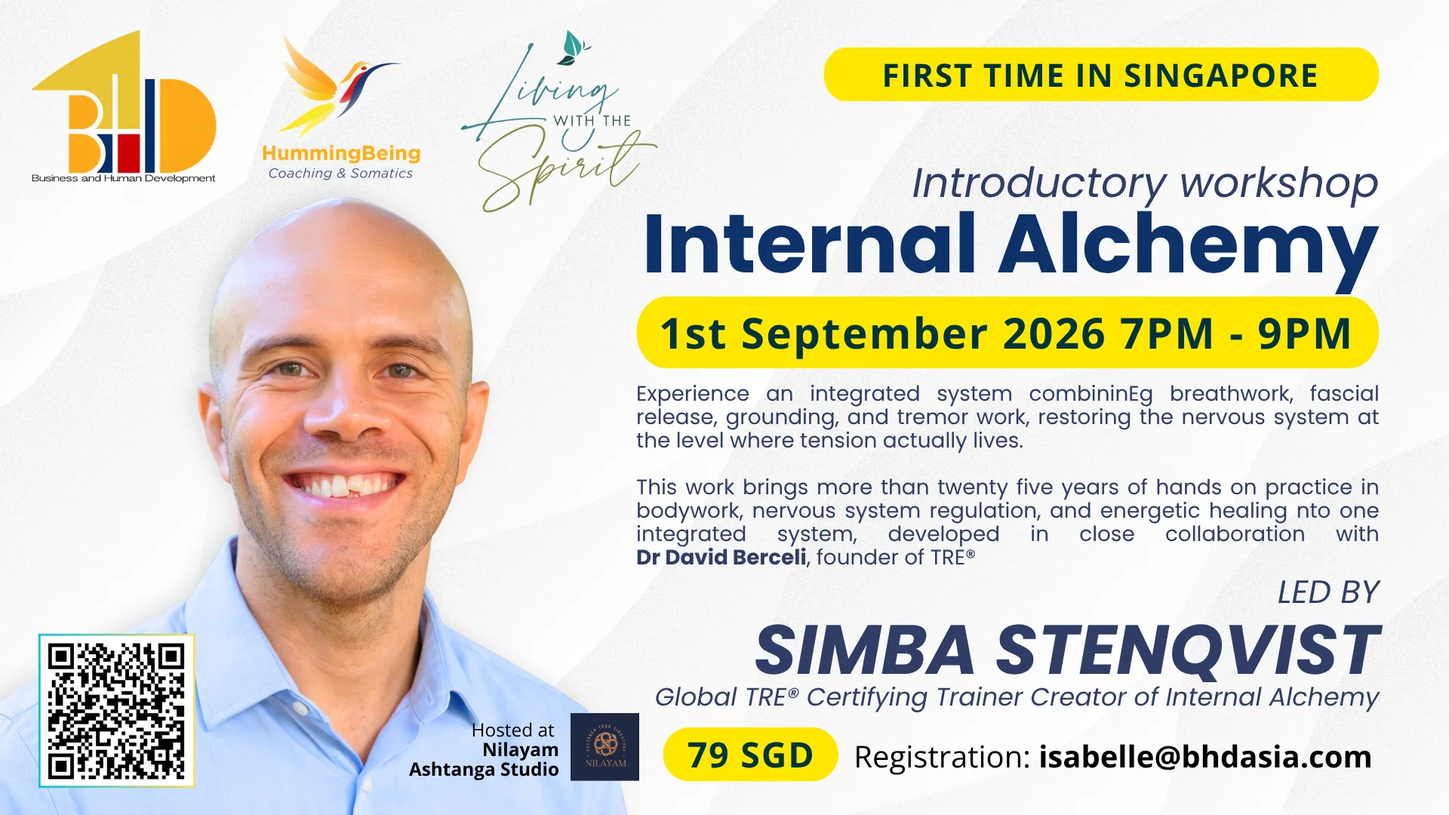
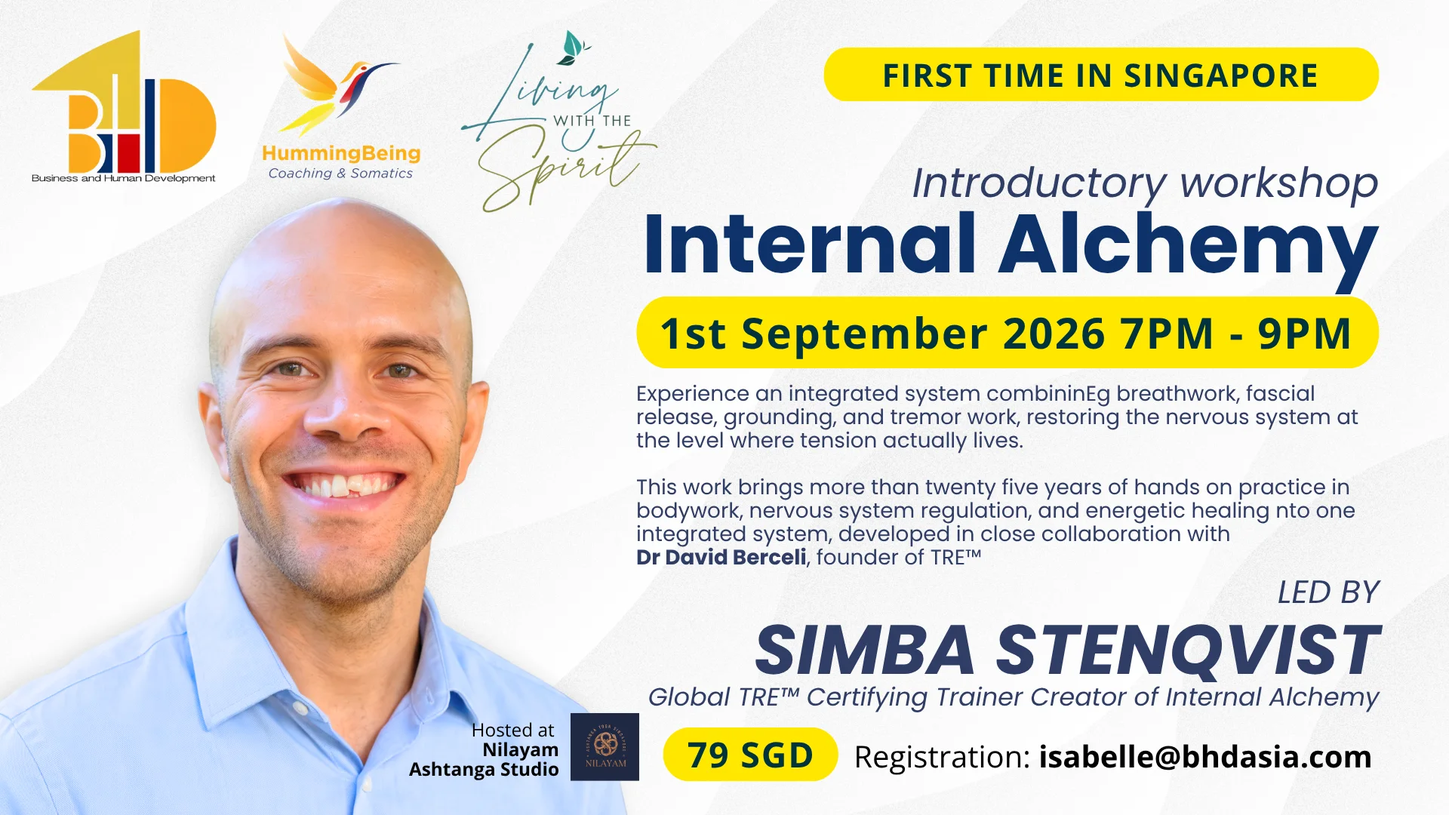
Replace all six event thumbnails with the TM-corrected artwork
New client exports with TRE followed by the TM symbol (was R) in trainer bylines, banners and body text. Cache versions bumped on every referencing page incl. og:image and schema image fields. Known leftover: the Cert 2026 (Transform your Practice) banner still reads TRE with R in the artwork itself - flagged to the client.

diff --git a/event-certification-2027.html b/event-certification-2027.html
@@ -29,7 +29,7 @@ j=d.createElement(s),dl=l!='dataLayer'?'&l='+l:'';j.async=true;j.src=
 <meta property="og:title" content="TRE&trade; Provider Certification 2027 — Coming Soon | BHD Asia"/>
 <meta property="og:description" content="Only one cohort per year in Singapore. Module 1: 13–14 Mar &middot; Module 2: 8–9 May &middot; Module 3: 28–29 Aug 2027. Boosted by Internal Alchemy."/>
 <meta property="og:url" content="https://bhdasia.com/event-certification-2027.html"/>
-<meta property="og:image" content="https://bhdasia.com/event-cert-2027.webp?v=2"/>
+<meta property="og:image" content="https://bhdasia.com/event-cert-2027.webp?v=3"/>
 <meta name="twitter:card" content="summary_large_image"/>
 <meta name="twitter:title" content="TRE&trade; Provider Certification 2027 — Coming Soon | BHD Asia"/>
 <meta name="twitter:description" content="Only one cohort per year in Singapore. Module 1: 13–14 Mar &middot; Module 2: 8–9 May &middot; Module 3: 28–29 Aug 2027."/>
@@ -40,7 +40,7 @@ j=d.createElement(s),dl=l!='dataLayer'?'&l='+l:'';j.async=true;j.src=
 <link rel="stylesheet" href="style.css?v=5"/>
 <link rel="stylesheet" href="event-detail.css?v=5"/>
 <script type="application/ld+json">
-{"@context":"https://schema.org","@type":"Course","name":"Global TRE™ Provider Certification 2027","description":"Become a Certified Global TRE™ Provider — the 2027 Singapore cohort, boosted by Internal Alchemy. Module 1: 13–14 March, Module 2: 8–9 May, Module 3: 28–29 August 2027. Led by Global TRE™ Certifying Trainer Isabelle Claus Teixeira.","provider":{"@type":"Organization","name":"BHD Asia","url":"https://bhdasia.com/"},"url":"https://bhdasia.com/event-certification-2027.html","image":"https://bhdasia.com/event-cert-2027.webp?v=2","hasCourseInstance":[{"@type":"CourseInstance","name":"Module 1 — Your Personal TRE™ Practice","courseMode":"Blended","startDate":"2027-03-13","endDate":"2027-03-14","location":{"@type":"Place","address":{"@type":"PostalAddress","addressLocality":"Singapore","addressCountry":"SG"}}},{"@type":"CourseInstance","name":"Module 2 — Teaching TRE™ to One Person","courseMode":"Blended","startDate":"2027-05-08","endDate":"2027-05-09","location":{"@type":"Place","address":{"@type":"PostalAddress","addressLocality":"Singapore","addressCountry":"SG"}}},{"@type":"CourseInstance","name":"Module 3 — Teaching TRE™ to Groups","courseMode":"Blended","startDate":"2027-08-28","endDate":"2027-08-29","location":{"@type":"Place","address":{"@type":"PostalAddress","addressLocality":"Singapore","addressCountry":"SG"}}}]}
+{"@context":"https://schema.org","@type":"Course","name":"Global TRE™ Provider Certification 2027","description":"Become a Certified Global TRE™ Provider — the 2027 Singapore cohort, boosted by Internal Alchemy. Module 1: 13–14 March, Module 2: 8–9 May, Module 3: 28–29 August 2027. Led by Global TRE™ Certifying Trainer Isabelle Claus Teixeira.","provider":{"@type":"Organization","name":"BHD Asia","url":"https://bhdasia.com/"},"url":"https://bhdasia.com/event-certification-2027.html","image":"https://bhdasia.com/event-cert-2027.webp?v=3","hasCourseInstance":[{"@type":"CourseInstance","name":"Module 1 — Your Personal TRE™ Practice","courseMode":"Blended","startDate":"2027-03-13","endDate":"2027-03-14","location":{"@type":"Place","address":{"@type":"PostalAddress","addressLocality":"Singapore","addressCountry":"SG"}}},{"@type":"CourseInstance","name":"Module 2 — Teaching TRE™ to One Person","courseMode":"Blended","startDate":"2027-05-08","endDate":"2027-05-09","location":{"@type":"Place","address":{"@type":"PostalAddress","addressLocality":"Singapore","addressCountry":"SG"}}},{"@type":"CourseInstance","name":"Module 3 — Teaching TRE™ to Groups","courseMode":"Blended","startDate":"2027-08-28","endDate":"2027-08-29","location":{"@type":"Place","address":{"@type":"PostalAddress","addressLocality":"Singapore","addressCountry":"SG"}}}]}
 </script>
 <style>
 .cs-photos{display:grid;grid-template-columns:1fr 1fr;gap:18px;margin-top:8px}
@@ -85,7 +85,7 @@ height="0" width="0" style="display:none;visibility:hidden"></iframe></noscript>
 <div id="et-main-area" tabindex="-1">
 
 <div class="evt-hero">
-  <img class="evt-hero-img" src="event-cert-2027.webp?v=2" alt="TRE&trade; Provider Certification 2027 — Coming Soon" width="1400" height="700" loading="eager"/>
+  <img class="evt-hero-img" src="event-cert-2027.webp?v=3" alt="TRE&trade; Provider Certification 2027 — Coming Soon" width="1400" height="700" loading="eager"/>
   <div class="evt-hero-overlay"></div>
   <div class="evt-hero-inner">
     <div class="container">
@@ -254,15 +254,15 @@ height="0" width="0" style="display:none;visibility:hidden"></iframe></noscript>
       <h2>Related Events</h2>
       <div class="related-grid">
         <a class="rel-card" href="event-certification.html">
-          <div class="rel-img"><img src="event-module2.webp?v=3" alt="TRE™ Certification 2026" width="400" height="220" loading="lazy"/></div>
+          <div class="rel-img"><img src="event-module2.webp?v=4" alt="TRE™ Certification 2026" width="400" height="220" loading="lazy"/></div>
           <div class="rel-body"><strong>Certification 2026 Cohort</strong><span>Aug 2026 – Feb 2027 &middot; Singapore</span></div>
         </a>
         <a class="rel-card" href="event-shaking-shaping.html">
-          <div class="rel-img"><img src="event-shaking-shaping.webp?v=3" alt="From Shaking to Shaping" width="400" height="220" loading="lazy"/></div>
+          <div class="rel-img"><img src="event-shaking-shaping.webp?v=4" alt="From Shaking to Shaping" width="400" height="220" loading="lazy"/></div>
           <div class="rel-body"><strong>From Shaking to Shaping</strong><span>Romania &middot; Sep–Oct 2026 &middot; from &euro;89</span></div>
         </a>
         <a class="rel-card" href="event-module1-bucharest.html">
-          <div class="rel-img"><img src="event-bucharest-module1.webp?v=3" alt="TRE™ Module 1 Bucharest" width="400" height="220" loading="lazy"/></div>
+          <div class="rel-img"><img src="event-bucharest-module1.webp?v=4" alt="TRE™ Module 1 Bucharest" width="400" height="220" loading="lazy"/></div>
           <div class="rel-body"><strong>TRE&trade; Module 1 — Bucharest</strong><span>Romania &middot; Oct 15–17, 2026</span></div>
         </a>
       </div>

diff --git a/event-internal-alchemy.html b/event-internal-alchemy.html
@@ -29,7 +29,7 @@ j=d.createElement(s),dl=l!='dataLayer'?'&l='+l:'';j.async=true;j.src=
 <meta property="og:title" content="Internal Alchemy — Introductory Workshop | First Time in Singapore | BHD Asia"/>
 <meta property="og:description" content="Breathwork, fascial release, grounding and tremor work in one integrated system. Led by Simba Stenqvist, creator of Internal Alchemy. 1 Sep 2026, 7–9PM, Nilayam Ashtanga Studio. S$79."/>
 <meta property="og:url" content="https://bhdasia.com/event-internal-alchemy.html"/>
-<meta property="og:image" content="https://bhdasia.com/event-internal-alchemy.webp"/>
+<meta property="og:image" content="https://bhdasia.com/event-internal-alchemy.webp?v=2"/>
 <meta name="twitter:card" content="summary_large_image"/>
 <meta name="twitter:title" content="Internal Alchemy — Introductory Workshop | First Time in Singapore | BHD Asia"/>
 <meta name="twitter:description" content="Led by Simba Stenqvist, creator of Internal Alchemy. 1 Sep 2026, 7–9PM, Nilayam Ashtanga Studio, Singapore. S$79."/>
@@ -40,7 +40,7 @@ j=d.createElement(s),dl=l!='dataLayer'?'&l='+l:'';j.async=true;j.src=
 <link rel="stylesheet" href="style.css?v=5"/>
 <link rel="stylesheet" href="event-detail.css?v=5"/>
 <script type="application/ld+json">
-{"@context":"https://schema.org","@type":"Event","name":"Internal Alchemy — Introductory Workshop","description":"First time in Singapore — an introductory workshop in Internal Alchemy, an integrated system combining breathwork, fascial release, grounding and tremor work, restoring the nervous system at the level where tension actually lives. Led by Simba Stenqvist, Global TRE™ Certifying Trainer and creator of Internal Alchemy.","startDate":"2026-09-01T19:00:00+08:00","endDate":"2026-09-01T21:00:00+08:00","eventAttendanceMode":"https://schema.org/OfflineEventAttendanceMode","eventStatus":"https://schema.org/EventScheduled","location":{"@type":"Place","name":"Nilayam Ashtanga Studio","address":{"@type":"PostalAddress","addressLocality":"Singapore","addressCountry":"SG"}},"image":"https://bhdasia.com/event-internal-alchemy.webp","organizer":{"@type":"Organization","name":"BHD Asia","url":"https://bhdasia.com/"},"performer":{"@type":"Person","name":"Simba Stenqvist","url":"https://livingwiththespirit.com/"},"offers":{"@type":"Offer","price":"79","priceCurrency":"SGD","availability":"https://schema.org/InStock","url":"https://bhdasia.com/event-internal-alchemy.html"},"url":"https://bhdasia.com/event-internal-alchemy.html"}
+{"@context":"https://schema.org","@type":"Event","name":"Internal Alchemy — Introductory Workshop","description":"First time in Singapore — an introductory workshop in Internal Alchemy, an integrated system combining breathwork, fascial release, grounding and tremor work, restoring the nervous system at the level where tension actually lives. Led by Simba Stenqvist, Global TRE™ Certifying Trainer and creator of Internal Alchemy.","startDate":"2026-09-01T19:00:00+08:00","endDate":"2026-09-01T21:00:00+08:00","eventAttendanceMode":"https://schema.org/OfflineEventAttendanceMode","eventStatus":"https://schema.org/EventScheduled","location":{"@type":"Place","name":"Nilayam Ashtanga Studio","address":{"@type":"PostalAddress","addressLocality":"Singapore","addressCountry":"SG"}},"image":"https://bhdasia.com/event-internal-alchemy.webp?v=2","organizer":{"@type":"Organization","name":"BHD Asia","url":"https://bhdasia.com/"},"performer":{"@type":"Person","name":"Simba Stenqvist","url":"https://livingwiththespirit.com/"},"offers":{"@type":"Offer","price":"79","priceCurrency":"SGD","availability":"https://schema.org/InStock","url":"https://bhdasia.com/event-internal-alchemy.html"},"url":"https://bhdasia.com/event-internal-alchemy.html"}
 </script>
 <style>
 .ia-photo{margin:18px 0 0;border-radius:10px;overflow:hidden;box-shadow:0 4px 18px rgba(0,0,0,.1);background:#eef1f4;max-width:340px}
@@ -83,7 +83,7 @@ height="0" width="0" style="display:none;visibility:hidden"></iframe></noscript>
 <div id="et-main-area" tabindex="-1">
 
 <div class="evt-hero">
-  <img class="evt-hero-img" src="event-internal-alchemy.webp" alt="Internal Alchemy — Introductory Workshop with Simba Stenqvist, 1 September 2026, Singapore" width="1400" height="700" loading="eager"/>
+  <img class="evt-hero-img" src="event-internal-alchemy.webp?v=2" alt="Internal Alchemy — Introductory Workshop with Simba Stenqvist, 1 September 2026, Singapore" width="1400" height="700" loading="eager"/>
   <div class="evt-hero-overlay"></div>
   <div class="evt-hero-inner">
     <div class="container">
@@ -175,15 +175,15 @@ height="0" width="0" style="display:none;visibility:hidden"></iframe></noscript>
       <h2>Related Events</h2>
       <div class="related-grid">
         <a class="rel-card" href="event-certification-2027.html">
-          <div class="rel-img"><img src="event-cert-2027.webp?v=2" alt="TRE™ Provider Certification 2027" width="400" height="220" loading="lazy"/></div>
+          <div class="rel-img"><img src="event-cert-2027.webp?v=3" alt="TRE™ Provider Certification 2027" width="400" height="220" loading="lazy"/></div>
           <div class="rel-body"><strong>TRE&trade; Certification 2027 &mdash; Coming Soon</strong><span>Singapore &middot; boosted by Internal Alchemy</span></div>
         </a>
         <a class="rel-card" href="event-certification.html">
-          <div class="rel-img"><img src="event-module2.webp?v=3" alt="TRE™ Certification 2026" width="400" height="220" loading="lazy"/></div>
+          <div class="rel-img"><img src="event-module2.webp?v=4" alt="TRE™ Certification 2026" width="400" height="220" loading="lazy"/></div>
           <div class="rel-body"><strong>Certification 2026 Cohort</strong><span>Aug 2026 – Feb 2027 &middot; Singapore</span></div>
         </a>
         <a class="rel-card" href="event-shaking-shaping.html">
-          <div class="rel-img"><img src="event-shaking-shaping.webp?v=3" alt="From Shaking to Shaping" width="400" height="220" loading="lazy"/></div>
+          <div class="rel-img"><img src="event-shaking-shaping.webp?v=4" alt="From Shaking to Shaping" width="400" height="220" loading="lazy"/></div>
           <div class="rel-body"><strong>From Shaking to Shaping</strong><span>Online &middot; Sep–Oct 2026 &middot; from &euro;89</span></div>
         </a>
       </div>

diff --git a/event-module1-bucharest.html b/event-module1-bucharest.html
@@ -25,7 +25,7 @@ j=d.createElement(s),dl=l!='dataLayer'?'&l='+l:'';j.async=true;j.src=
 <title>TRE™ Module 1 Bucharest — Oct 15–17 2026 | BHD Asia</title>
 <meta name="description" content="TRE™ Module 1 Certification, Bucharest, Oct 15–17 2026. 3-day immersive, 21 ICF CCEUs — the first English-language TRE™ Module 1 in Europe."/>
 <meta property="og:title" content="TRE™ Module 1 — Bucharest, Romania | Oct 15–17 2026 | BHD Asia"/>
-<meta property="og:image" content="https://bhdasia.com/event-bucharest-module1.webp?v=3"/>
+<meta property="og:image" content="https://bhdasia.com/event-bucharest-module1.webp?v=4"/>
 <meta property="og:type" content="website"/>
 <meta property="og:site_name" content="BHD Asia"/>
 <meta property="og:description" content="TRE™ Module 1 Certification, Bucharest, Oct 15–17 2026. 3-day immersive, 21 ICF CCEUs — the first English-language TRE™ Module 1 in Europe."/>
@@ -52,7 +52,7 @@ j=d.createElement(s),dl=l!='dataLayer'?'&l='+l:'';j.async=true;j.src=
 .price-card.tier-soldout .tk-label{color:#c0392b}
 </style>
 <script type="application/ld+json">
-{"@context":"https://schema.org","@type":"Event","name":"TRE™ Module 1 Certification - Bucharest","description":"3-day immersive TRE™ Module 1 certification in Bucharest, Romania, 15-17 October 2026. 21 ICF CCEUs - the first English-language TRE™ Module 1 in Europe.","startDate":"2026-10-15","endDate":"2026-10-17","eventAttendanceMode":"https://schema.org/OfflineEventAttendanceMode","eventStatus":"https://schema.org/EventScheduled","location":{"@type":"Place","name":"Bucharest","address":{"@type":"PostalAddress","addressLocality":"Bucharest","addressCountry":"RO"}},"image":"https://bhdasia.com/event-bucharest-module1.webp?v=3","offers":{"@type":"AggregateOffer","lowPrice":"739","highPrice":"799","priceCurrency":"EUR","offerCount":"20","url":"https://www.atelierdesuflet.ro/tre-module-1-bucharest-romania-21-icf-cceus-only-tre-training-in-the-world-with-icf-accreditation.html","availability":"https://schema.org/InStock"},"organizer":{"@type":"Organization","name":"BHD Asia","url":"https://bhdasia.com/"},"performer":[{"@type":"Person","name":"Isabelle Claus Teixeira"},{"@type":"Person","name":"Saymara Ryon","url":"https://www.atelierdesuflet.ro/"}],"url":"https://bhdasia.com/event-module1-bucharest.html"}
+{"@context":"https://schema.org","@type":"Event","name":"TRE™ Module 1 Certification - Bucharest","description":"3-day immersive TRE™ Module 1 certification in Bucharest, Romania, 15-17 October 2026. 21 ICF CCEUs - the first English-language TRE™ Module 1 in Europe.","startDate":"2026-10-15","endDate":"2026-10-17","eventAttendanceMode":"https://schema.org/OfflineEventAttendanceMode","eventStatus":"https://schema.org/EventScheduled","location":{"@type":"Place","name":"Bucharest","address":{"@type":"PostalAddress","addressLocality":"Bucharest","addressCountry":"RO"}},"image":"https://bhdasia.com/event-bucharest-module1.webp?v=4","offers":{"@type":"AggregateOffer","lowPrice":"739","highPrice":"799","priceCurrency":"EUR","offerCount":"20","url":"https://www.atelierdesuflet.ro/tre-module-1-bucharest-romania-21-icf-cceus-only-tre-training-in-the-world-with-icf-accreditation.html","availability":"https://schema.org/InStock"},"organizer":{"@type":"Organization","name":"BHD Asia","url":"https://bhdasia.com/"},"performer":[{"@type":"Person","name":"Isabelle Claus Teixeira"},{"@type":"Person","name":"Saymara Ryon","url":"https://www.atelierdesuflet.ro/"}],"url":"https://bhdasia.com/event-module1-bucharest.html"}
 </script>
 </head>
 <body class="page et_fixed_nav et_divi_theme">
@@ -90,7 +90,7 @@ height="0" width="0" style="display:none;visibility:hidden"></iframe></noscript>
 <div id="et-main-area" tabindex="-1">
 
 <div class="evt-hero">
-  <img class="evt-hero-img" src="event-bucharest-module1.webp?v=3" alt="TRE™ Module 1 Bucharest Romania" width="1400" height="700" loading="eager"/>
+  <img class="evt-hero-img" src="event-bucharest-module1.webp?v=4" alt="TRE™ Module 1 Bucharest Romania" width="1400" height="700" loading="eager"/>
   <div class="evt-hero-overlay"></div>
   <div class="evt-hero-inner">
     <div class="container">
@@ -349,15 +349,15 @@ height="0" width="0" style="display:none;visibility:hidden"></iframe></noscript>
       <h2>More BHD Asia Events</h2>
       <div class="related-grid">
         <a class="rel-card" href="event-shaking-shaping.html">
-          <div class="rel-img"><img src="event-shaking-shaping.webp?v=3" alt="From Shaking to Shaping" width="400" height="220" loading="lazy"/></div>
+          <div class="rel-img"><img src="event-shaking-shaping.webp?v=4" alt="From Shaking to Shaping" width="400" height="220" loading="lazy"/></div>
           <div class="rel-body"><strong>From Shaking to Shaping</strong><span>Romania &amp; Online · Sep–Oct 2026 · From €89</span></div>
         </a>
         <a class="rel-card" href="event-module1-singapore.html">
-          <div class="rel-img"><img src="event-module1.webp?v=3" alt="TRE™ Module 1 Singapore" width="400" height="220" loading="lazy"/></div>
+          <div class="rel-img"><img src="event-module1.webp?v=4" alt="TRE™ Module 1 Singapore" width="400" height="220" loading="lazy"/></div>
           <div class="rel-body"><strong>Module 1 — Singapore</strong><span>Aug 29–30, 2026 · from S$1,290</span></div>
         </a>
         <a class="rel-card" href="event-certification.html">
-          <div class="rel-img"><img src="event-module2.webp?v=3" alt="Full TRE™ Certification" width="400" height="220" loading="lazy"/></div>
+          <div class="rel-img"><img src="event-module2.webp?v=4" alt="Full TRE™ Certification" width="400" height="220" loading="lazy"/></div>
           <div class="rel-body"><strong>Full TRE™ Certification</strong><span>Modules 1–3 · Singapore · from S$3,699</span></div>
         </a>
       </div>

diff --git a/event-shaking-shaping.html b/event-shaking-shaping.html
@@ -25,7 +25,7 @@ j=d.createElement(s),dl=l!='dataLayer'?'&l='+l:'';j.async=true;j.src=
 <title>From Shaking to Shaping — TRE™ Workshop | Romania 2026 | BHD Asia</title>
 <meta name="description" content="Use of TRE™ in a coaching context — a half-day intensive in Romania and online. Sep–Oct 2026. Co-facilitated by Isabelle Claus Teixeira and Saymara Ryon. From €89."/>
 <meta property="og:title" content="From Shaking to Shaping | Romania &amp; Online | BHD Asia"/>
-<meta property="og:image" content="https://bhdasia.com/event-shaking-shaping.webp?v=3"/>
+<meta property="og:image" content="https://bhdasia.com/event-shaking-shaping.webp?v=4"/>
 <meta property="og:type" content="website"/>
 <meta property="og:site_name" content="BHD Asia"/>
 <meta property="og:description" content="Use of TRE™ in a coaching context — a half-day intensive in Romania and online. Sep–Oct 2026. Co-facilitated by Isabelle Claus Teixeira and Saymara Ryon. From €89."/>
@@ -40,7 +40,7 @@ j=d.createElement(s),dl=l!='dataLayer'?'&l='+l:'';j.async=true;j.src=
 <link rel="stylesheet" href="style.css?v=5"/>
 <link rel="stylesheet" href="event-detail.css?v=5"/>
 <script type="application/ld+json">
-{"@context":"https://schema.org","@type":"Event","name":"From Shaking to Shaping - TRE™ Workshop","description":"An online TRE™ workshop series, September-October 2026, co-facilitated by Isabelle Claus Teixeira and Saymara Ryon with TRE™ Romania.","startDate":"2026-09-03","endDate":"2026-10-24","eventAttendanceMode":"https://schema.org/OnlineEventAttendanceMode","eventStatus":"https://schema.org/EventScheduled","location":{"@type":"VirtualLocation","url":"https://bhdasia.com/event-shaking-shaping.html"},"image":"https://bhdasia.com/event-shaking-shaping.webp?v=3","offers":{"@type":"AggregateOffer","lowPrice":"89","highPrice":"97","priceCurrency":"EUR","url":"https://www.atelierdesuflet.ro/training-workshops-retrreat-tre/from-shaking-to-shaping-use-of-tre-in-a-coaching-context.html","availability":"https://schema.org/InStock"},"organizer":{"@type":"Organization","name":"BHD Asia","url":"https://bhdasia.com/"},"performer":[{"@type":"Person","name":"Isabelle Claus Teixeira"},{"@type":"Person","name":"Saymara Ryon","url":"https://www.atelierdesuflet.ro/"}],"url":"https://bhdasia.com/event-shaking-shaping.html"}
+{"@context":"https://schema.org","@type":"Event","name":"From Shaking to Shaping - TRE™ Workshop","description":"An online TRE™ workshop series, September-October 2026, co-facilitated by Isabelle Claus Teixeira and Saymara Ryon with TRE™ Romania.","startDate":"2026-09-03","endDate":"2026-10-24","eventAttendanceMode":"https://schema.org/OnlineEventAttendanceMode","eventStatus":"https://schema.org/EventScheduled","location":{"@type":"VirtualLocation","url":"https://bhdasia.com/event-shaking-shaping.html"},"image":"https://bhdasia.com/event-shaking-shaping.webp?v=4","offers":{"@type":"AggregateOffer","lowPrice":"89","highPrice":"97","priceCurrency":"EUR","url":"https://www.atelierdesuflet.ro/training-workshops-retrreat-tre/from-shaking-to-shaping-use-of-tre-in-a-coaching-context.html","availability":"https://schema.org/InStock"},"organizer":{"@type":"Organization","name":"BHD Asia","url":"https://bhdasia.com/"},"performer":[{"@type":"Person","name":"Isabelle Claus Teixeira"},{"@type":"Person","name":"Saymara Ryon","url":"https://www.atelierdesuflet.ro/"}],"url":"https://bhdasia.com/event-shaking-shaping.html"}
 </script>
 </head>
 <body class="page et_fixed_nav et_divi_theme">
@@ -78,7 +78,7 @@ height="0" width="0" style="display:none;visibility:hidden"></iframe></noscript>
 <div id="et-main-area" tabindex="-1">
 
 <div class="evt-hero">
-  <img class="evt-hero-img" src="event-shaking-shaping.webp?v=3" alt="From Shaking to Shaping — Romania" width="1400" height="700" loading="eager"/>
+  <img class="evt-hero-img" src="event-shaking-shaping.webp?v=4" alt="From Shaking to Shaping — Romania" width="1400" height="700" loading="eager"/>
   <div class="evt-hero-overlay"></div>
   <div class="evt-hero-inner">
     <div class="container">
@@ -235,15 +235,15 @@ height="0" width="0" style="display:none;visibility:hidden"></iframe></noscript>
       <h2>Also in Romania &amp; Singapore</h2>
       <div class="related-grid">
         <a class="rel-card" href="event-module1-bucharest.html">
-          <div class="rel-img"><img src="event-bucharest-module1.webp?v=3" alt="TRE™ Module 1 Bucharest" width="400" height="220" loading="lazy"/></div>
+          <div class="rel-img"><img src="event-bucharest-module1.webp?v=4" alt="TRE™ Module 1 Bucharest" width="400" height="220" loading="lazy"/></div>
           <div class="rel-body"><strong>TRE™ Module 1 — Bucharest</strong><span>Oct 15–17, 2026 · ICF CCEUs</span></div>
         </a>
         <a class="rel-card" href="event-module1-singapore.html">
-          <div class="rel-img"><img src="event-module1.webp?v=3" alt="Module 1 Singapore" width="400" height="220" loading="lazy"/></div>
+          <div class="rel-img"><img src="event-module1.webp?v=4" alt="Module 1 Singapore" width="400" height="220" loading="lazy"/></div>
           <div class="rel-body"><strong>Module 1 — Singapore</strong><span>29–30 Aug 2026 · from S$1,290</span></div>
         </a>
         <a class="rel-card" href="event-certification.html">
-          <div class="rel-img"><img src="event-module2.webp?v=3" alt="Full Certification" width="400" height="220" loading="lazy"/></div>
+          <div class="rel-img"><img src="event-module2.webp?v=4" alt="Full Certification" width="400" height="220" loading="lazy"/></div>
           <div class="rel-body"><strong>Full TRE™ Certification</strong><span>Modules 1–3 · Singapore · from S$3,699</span></div>
         </a>
       </div>

diff --git a/event-module1-singapore.html b/event-module1-singapore.html
@@ -26,7 +26,7 @@ j=d.createElement(s),dl=l!='dataLayer'?'&l='+l:'';j.async=true;j.src=
 <meta name="description" content="A 2-day in-person TRE™ workshop for coaches in Singapore, 29–30 August 2026. 21 ICF CCEUs. Valid as Module 1 of the Global TRE™ Provider Certification. Led by Isabelle Claus Teixeira."/>
 <meta property="og:title" content="Nervous System Regulation &amp; Neurogenic Tremoring | Singapore | BHD Asia"/>
 <meta property="og:description" content="2-day TRE™ workshop for coaches in Singapore. 21 ICF CCEUs. Aug 29–30, 2026."/>
-<meta property="og:image" content="https://bhdasia.com/event-module1.webp?v=3"/>
+<meta property="og:image" content="https://bhdasia.com/event-module1.webp?v=4"/>
 <meta property="og:type" content="website"/>
 <meta property="og:site_name" content="BHD Asia"/>
 <meta property="og:url" content="https://bhdasia.com/event-module1-singapore.html"/>
@@ -150,7 +150,7 @@ j=d.createElement(s),dl=l!='dataLayer'?'&l='+l:'';j.async=true;j.src=
 }
 </style>
 <script type="application/ld+json">
-{"@context":"https://schema.org","@type":"Event","name":"Nervous System Regulation & Neurogenic Tremoring - TRE™ Workshop for Coaches","description":"A 2-day in-person TRE™ workshop for coaches in Singapore, 29-30 August 2026. 21 ICF CCEUs. Valid as Module 1 of the Global TRE™ Provider Certification.","startDate":"2026-08-29","endDate":"2026-08-30","eventAttendanceMode":"https://schema.org/OfflineEventAttendanceMode","eventStatus":"https://schema.org/EventScheduled","location":{"@type":"Place","name":"Singapore","address":{"@type":"PostalAddress","addressLocality":"Singapore","addressCountry":"SG"}},"image":"https://bhdasia.com/event-module1.webp?v=3","organizer":{"@type":"Organization","name":"BHD Asia","url":"https://bhdasia.com/"},"performer":{"@type":"Person","name":"Isabelle Claus Teixeira"},"url":"https://bhdasia.com/event-module1-singapore.html"}
+{"@context":"https://schema.org","@type":"Event","name":"Nervous System Regulation & Neurogenic Tremoring - TRE™ Workshop for Coaches","description":"A 2-day in-person TRE™ workshop for coaches in Singapore, 29-30 August 2026. 21 ICF CCEUs. Valid as Module 1 of the Global TRE™ Provider Certification.","startDate":"2026-08-29","endDate":"2026-08-30","eventAttendanceMode":"https://schema.org/OfflineEventAttendanceMode","eventStatus":"https://schema.org/EventScheduled","location":{"@type":"Place","name":"Singapore","address":{"@type":"PostalAddress","addressLocality":"Singapore","addressCountry":"SG"}},"image":"https://bhdasia.com/event-module1.webp?v=4","organizer":{"@type":"Organization","name":"BHD Asia","url":"https://bhdasia.com/"},"performer":{"@type":"Person","name":"Isabelle Claus Teixeira"},"url":"https://bhdasia.com/event-module1-singapore.html"}
 </script>
 </head>
 <body class="page et_fixed_nav et_divi_theme">
@@ -191,7 +191,7 @@ height="0" width="0" style="display:none;visibility:hidden"></iframe></noscript>
 
 <!-- HERO -->
 <div class="evt-hero">
-  <img class="evt-hero-img" src="event-module1.webp?v=3" alt="Nervous System Regulation &amp; Neurogenic Tremoring — Singapore" width="1400" height="700" loading="eager"/>
+  <img class="evt-hero-img" src="event-module1.webp?v=4" alt="Nervous System Regulation &amp; Neurogenic Tremoring — Singapore" width="1400" height="700" loading="eager"/>
   <div class="evt-hero-overlay"></div>
   <div class="evt-hero-inner">
     <div class="container">
@@ -376,15 +376,15 @@ height="0" width="0" style="display:none;visibility:hidden"></iframe></noscript>
         <h2>Also in 2026</h2>
         <div class="related-grid">
           <a class="rel-card" href="event-certification.html">
-            <div class="rel-img"><img src="event-module2.webp?v=3" alt="Full TRE™ Certification" width="400" height="220" loading="lazy"/></div>
+            <div class="rel-img"><img src="event-module2.webp?v=4" alt="Full TRE™ Certification" width="400" height="220" loading="lazy"/></div>
             <div class="rel-body"><strong>Full TRE&trade; Provider Certification</strong><span>Modules 1–3 · Singapore · from S$3,699</span></div>
           </a>
           <a class="rel-card" href="event-shaking-shaping.html">
-            <div class="rel-img"><img src="event-shaking-shaping.webp?v=3" alt="From Shaking to Shaping" width="400" height="220" loading="lazy"/></div>
+            <div class="rel-img"><img src="event-shaking-shaping.webp?v=4" alt="From Shaking to Shaping" width="400" height="220" loading="lazy"/></div>
             <div class="rel-body"><strong>From Shaking to Shaping</strong><span>Romania · Sep–Oct 2026 · from €89</span></div>
           </a>
           <a class="rel-card" href="event-module1-bucharest.html">
-            <div class="rel-img"><img src="event-bucharest-module1.webp?v=3" alt="TRE™ Module 1 Bucharest" width="400" height="220" loading="lazy"/></div>
+            <div class="rel-img"><img src="event-bucharest-module1.webp?v=4" alt="TRE™ Module 1 Bucharest" width="400" height="220" loading="lazy"/></div>
             <div class="rel-body"><strong>TRE&trade; Module 1 — Bucharest</strong><span>Romania · Oct 15–17, 2026</span></div>
           </a>
         </div>

diff --git a/events.html b/events.html
@@ -216,7 +216,7 @@ height="0" width="0" style="display:none;visibility:hidden"></iframe></noscript>
       <!-- EVENT 0: Internal Alchemy Intro Workshop (Simba) -->
       <div class="evt-card" data-cat="singapore workshop">
         <div class="ec-img">
-          <img src="event-internal-alchemy.webp" alt="Internal Alchemy â€” Introductory Workshop with Simba Stenqvist, 1 September 2026, Singapore" width="1920" height="1080" loading="lazy"/>
+          <img src="event-internal-alchemy.webp?v=2" alt="Internal Alchemy â€” Introductory Workshop with Simba Stenqvist, 1 September 2026, Singapore" width="1920" height="1080" loading="lazy"/>
         </div>
         <div class="ec-body">
           <div class="ec-tags"><span class="ec-loc">Singapore</span><span class="ec-type">First Time in Singapore</span></div>
@@ -239,7 +239,7 @@ height="0" width="0" style="display:none;visibility:hidden"></iframe></noscript>
       <!-- EVENT 3: From Shaking to Shaping, Romania -->
       <div class="evt-card" data-cat="romania">
         <div class="ec-img">
-          <img src="event-shaking-shaping.webp?v=3" alt="From Shaking to Shaping — Romania" width="1920" height="1080" loading="lazy"/>
+          <img src="event-shaking-shaping.webp?v=4" alt="From Shaking to Shaping — Romania" width="1920" height="1080" loading="lazy"/>
         </div>
         <div class="ec-body">
           <div class="ec-tags"><span class="ec-loc">Romania</span><span class="ec-type">Online &amp; In-Person</span></div>
@@ -262,7 +262,7 @@ height="0" width="0" style="display:none;visibility:hidden"></iframe></noscript>
       <!-- EVENT 2: Full Certification Singapore -->
       <div class="evt-card" data-cat="singapore certification">
         <div class="ec-img">
-          <img src="event-module2.webp?v=3" alt="Become a Certified TRE™ Provider" width="1920" height="1080" loading="lazy"/>
+          <img src="event-module2.webp?v=4" alt="Become a Certified TRE™ Provider" width="1920" height="1080" loading="lazy"/>
         </div>
         <div class="ec-body">
           <div class="ec-tags"><span class="ec-loc">Singapore</span><span class="ec-type">Certification</span></div>
@@ -308,7 +308,7 @@ height="0" width="0" style="display:none;visibility:hidden"></iframe></noscript>
       <!-- EVENT 4: TRE™ Module 1 Bucharest -->
       <div class="evt-card" data-cat="romania certification">
         <div class="ec-img">
-          <img src="event-bucharest-module1.webp?v=3" alt="TRE™ Module 1 — Bucharest" width="1920" height="1080" loading="lazy"/>
+          <img src="event-bucharest-module1.webp?v=4" alt="TRE™ Module 1 — Bucharest" width="1920" height="1080" loading="lazy"/>
         </div>
         <div class="ec-body">
           <div class="ec-tags"><span class="ec-loc">Romania</span><span class="ec-type">21 ICF CCEUs</span></div>
@@ -331,7 +331,7 @@ height="0" width="0" style="display:none;visibility:hidden"></iframe></noscript>
       <!-- EVENT 2B: TRE™ Certification 2027 Cohort (Coming Soon) -->
       <div class="evt-card" data-cat="singapore certification">
         <div class="ec-img">
-          <img src="event-cert-2027.webp?v=2" alt="TRE&trade; Provider Certification 2027 — Coming Soon" width="1920" height="1080" loading="lazy"/>
+          <img src="event-cert-2027.webp?v=3" alt="TRE&trade; Provider Certification 2027 — Coming Soon" width="1920" height="1080" loading="lazy"/>
         </div>
         <div class="ec-body">
           <div class="ec-tags"><span class="ec-loc">Singapore</span><span class="ec-type">Certification &middot; 2027</span></div>
@@ -355,7 +355,7 @@ height="0" width="0" style="display:none;visibility:hidden"></iframe></noscript>
       <div class="evt-card is-sold" data-cat="singapore certification soldout">
         <div class="ec-img">
           <span class="ec-soldout">Sold Out</span>
-          <img src="event-module1.webp?v=3" alt="Nervous System Regulation &amp; Neurogenic Tremoring — Singapore" width="1920" height="1080" loading="lazy"/>
+          <img src="event-module1.webp?v=4" alt="Nervous System Regulation &amp; Neurogenic Tremoring — Singapore" width="1920" height="1080" loading="lazy"/>
         </div>
         <div class="ec-body">
           <div class="ec-tags"><span class="ec-loc">Singapore</span><span class="ec-type">21 CCEUs &middot; ICF</span></div>

diff --git a/event-certification.html b/event-certification.html
@@ -25,7 +25,7 @@ j=d.createElement(s),dl=l!='dataLayer'?'&l='+l:'';j.async=true;j.src=
 <title>Global TRE™ Provider Certification | Singapore 2026–2027 | BHD Asia</title>
 <meta name="description" content="Global TRE™ Provider Certification — 3 modules in Singapore, Aug 2026 to Feb 2027. Led by Isabelle Claus Teixeira, Global TRE™ Certifying Trainer."/>
 <meta property="og:title" content="Become a Certified TRE™ Provider | Singapore | BHD Asia"/>
-<meta property="og:image" content="https://bhdasia.com/event-module2.webp?v=3"/>
+<meta property="og:image" content="https://bhdasia.com/event-module2.webp?v=4"/>
 <meta property="og:type" content="website"/>
 <meta property="og:site_name" content="BHD Asia"/>
 <meta property="og:description" content="Global TRE™ Provider Certification — 3 modules in Singapore, Aug 2026 to Feb 2027. Led by Isabelle Claus Teixeira, Global TRE™ Certifying Trainer."/>
@@ -78,7 +78,7 @@ height="0" width="0" style="display:none;visibility:hidden"></iframe></noscript>
 <div id="et-main-area" tabindex="-1">
 
 <div class="evt-hero">
-  <img class="evt-hero-img" src="event-module2.webp?v=3" alt="Become a Certified TRE™ Provider" width="1400" height="700" loading="eager"/>
+  <img class="evt-hero-img" src="event-module2.webp?v=4" alt="Become a Certified TRE™ Provider" width="1400" height="700" loading="eager"/>
   <div class="evt-hero-overlay"></div>
   <div class="evt-hero-inner">
     <div class="container">
@@ -230,15 +230,15 @@ height="0" width="0" style="display:none;visibility:hidden"></iframe></noscript>
       <h2>Related Events</h2>
       <div class="related-grid">
         <a class="rel-card" href="event-module1-singapore.html">
-          <div class="rel-img"><img src="event-module1.webp?v=3" alt="Module 1 Singapore" width="400" height="220" loading="lazy"/></div>
+          <div class="rel-img"><img src="event-module1.webp?v=4" alt="Module 1 Singapore" width="400" height="220" loading="lazy"/></div>
           <div class="rel-body"><strong>Module 1 — Singapore</strong><span>29–30 Aug 2026 · from S$1,290</span></div>
         </a>
         <a class="rel-card" href="event-shaking-shaping.html">
-          <div class="rel-img"><img src="event-shaking-shaping.webp?v=3" alt="From Shaking to Shaping" width="400" height="220" loading="lazy"/></div>
+          <div class="rel-img"><img src="event-shaking-shaping.webp?v=4" alt="From Shaking to Shaping" width="400" height="220" loading="lazy"/></div>
           <div class="rel-body"><strong>From Shaking to Shaping</strong><span>Romania · Sep–Oct 2026 · from €89</span></div>
         </a>
         <a class="rel-card" href="event-module1-bucharest.html">
-          <div class="rel-img"><img src="event-bucharest-module1.webp?v=3" alt="TRE™ Module 1 Bucharest" width="400" height="220" loading="lazy"/></div>
+          <div class="rel-img"><img src="event-bucharest-module1.webp?v=4" alt="TRE™ Module 1 Bucharest" width="400" height="220" loading="lazy"/></div>
           <div class="rel-body"><strong>TRE&trade; Module 1 — Bucharest</strong><span>Romania · Oct 15–17, 2026</span></div>
         </a>
       </div>

diff --git a/event-shaking-shaping-oct8.html b/event-shaking-shaping-oct8.html
@@ -190,15 +190,15 @@ height="0" width="0" style="display:none;visibility:hidden"></iframe></noscript>
       <h2>Related Events</h2>
       <div class="related-grid">
         <a class="rel-card" href="event-shaking-shaping.html">
-          <div class="rel-img"><img src="event-shaking-shaping.webp?v=3" alt="From Shaking to Shaping workshop series" width="400" height="220" loading="lazy"/></div>
+          <div class="rel-img"><img src="event-shaking-shaping.webp?v=4" alt="From Shaking to Shaping workshop series" width="400" height="220" loading="lazy"/></div>
           <div class="rel-body"><strong>From Shaking to Shaping &mdash; Series</strong><span>Romania &middot; Sep&ndash;Oct 2026 &middot; from &euro;89</span></div>
         </a>
         <a class="rel-card" href="event-module1-bucharest.html">
-          <div class="rel-img"><img src="event-bucharest-module1.webp?v=3" alt="TRE™ Module 1 Bucharest" width="400" height="220" loading="lazy"/></div>
+          <div class="rel-img"><img src="event-bucharest-module1.webp?v=4" alt="TRE™ Module 1 Bucharest" width="400" height="220" loading="lazy"/></div>
           <div class="rel-body"><strong>TRE&trade; Module 1 &mdash; Bucharest</strong><span>Romania &middot; Oct 15&ndash;17, 2026</span></div>
         </a>
         <a class="rel-card" href="event-certification-2027.html">
-          <div class="rel-img"><img src="event-cert-2027.webp?v=2" alt="TRE™ Certification 2027" width="400" height="220" loading="lazy"/></div>
+          <div class="rel-img"><img src="event-cert-2027.webp?v=3" alt="TRE™ Certification 2027" width="400" height="220" loading="lazy"/></div>
           <div class="rel-body"><strong>Certification 2027 Cohort</strong><span>Singapore &middot; Mar&ndash;Aug 2027</span></div>
         </a>
       </div>

diff --git a/index.html b/index.html
@@ -245,7 +245,7 @@ height="0" width="0" style="display:none;visibility:hidden"></iframe></noscript>
 
       <div class="home-evt-card">
         <div class="hec-img">
-          <img src="event-internal-alchemy.webp" alt="Internal Alchemy — Introductory Workshop with Simba Stenqvist" width="1920" height="1080" loading="lazy"/>
+          <img src="event-internal-alchemy.webp?v=2" alt="Internal Alchemy — Introductory Workshop with Simba Stenqvist" width="1920" height="1080" loading="lazy"/>
         </div>
         <div class="hec-body">
           <span class="hec-tag">First Time in Singapore</span>
@@ -267,7 +267,7 @@ height="0" width="0" style="display:none;visibility:hidden"></iframe></noscript>
 
       <div class="home-evt-card">
         <div class="hec-img">
-          <img src="event-shaking-shaping.webp?v=3" alt="From Shaking to Shaping — Isabelle Claus Teixeira &amp; Saymara Ryon" width="1920" height="1080" loading="lazy"/>
+          <img src="event-shaking-shaping.webp?v=4" alt="From Shaking to Shaping — Isabelle Claus Teixeira &amp; Saymara Ryon" width="1920" height="1080" loading="lazy"/>
         </div>
         <div class="hec-body">
           <span class="hec-tag">Isabelle &amp; Saymara</span>
